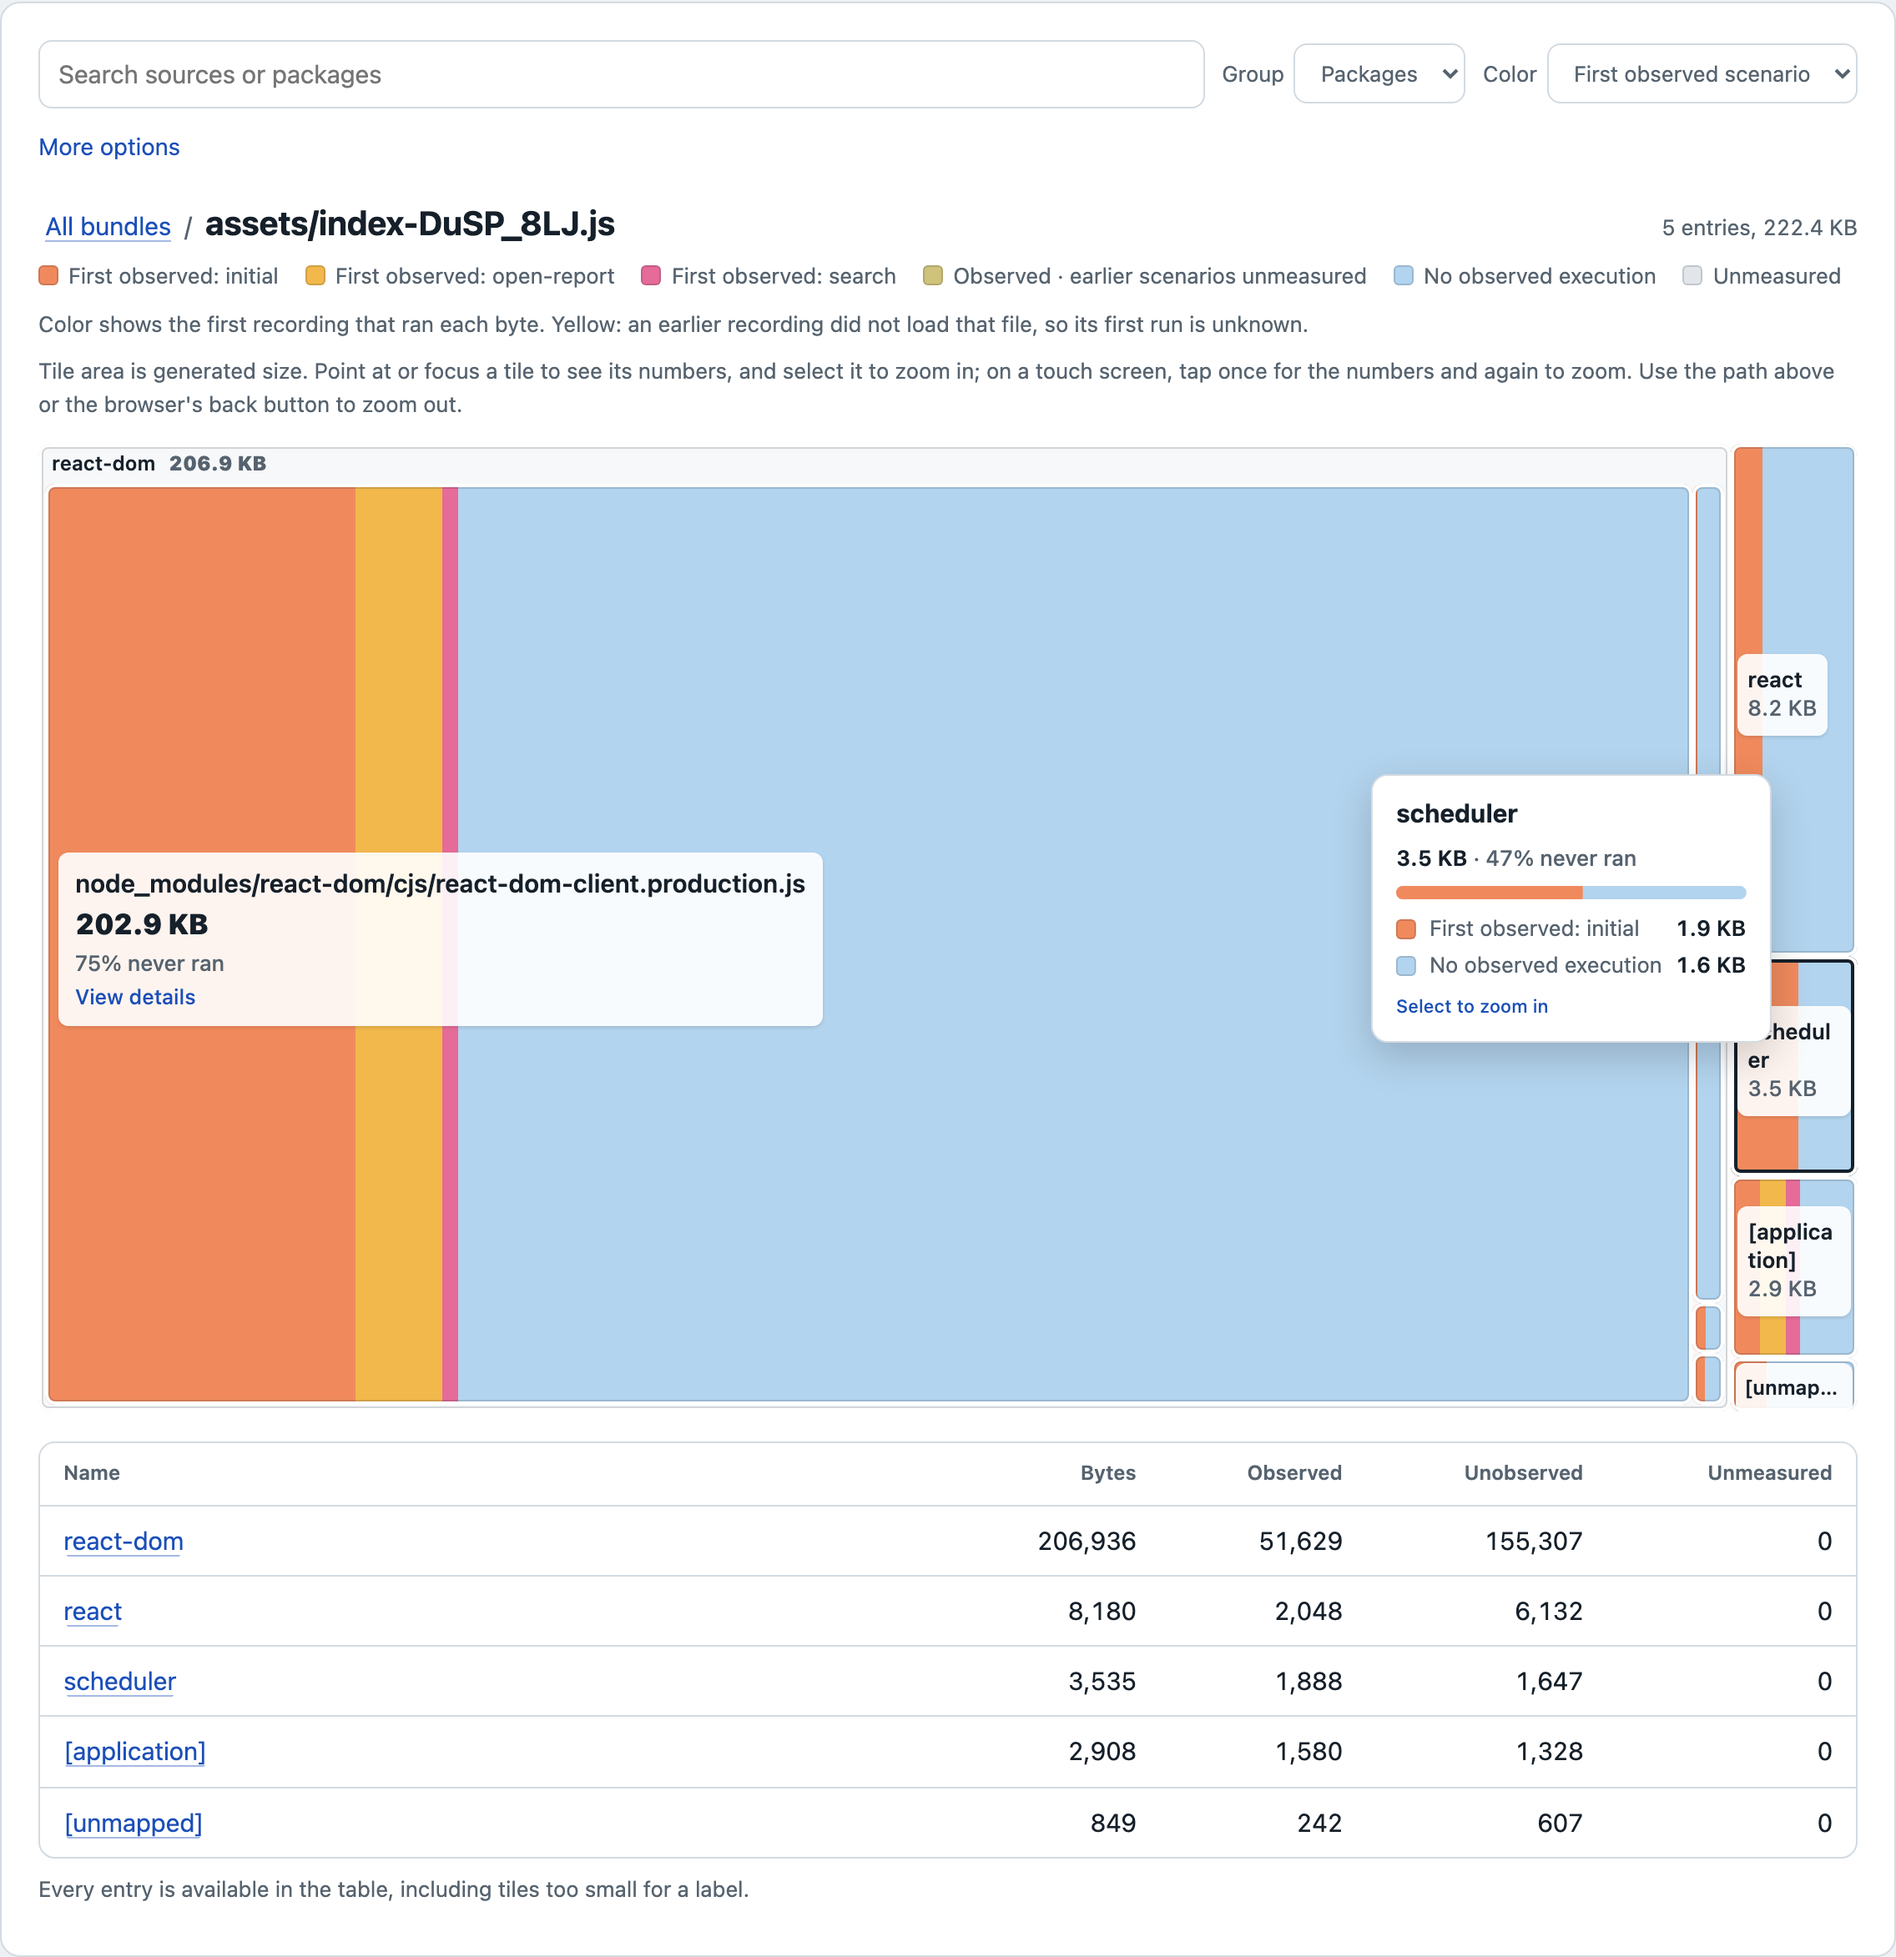
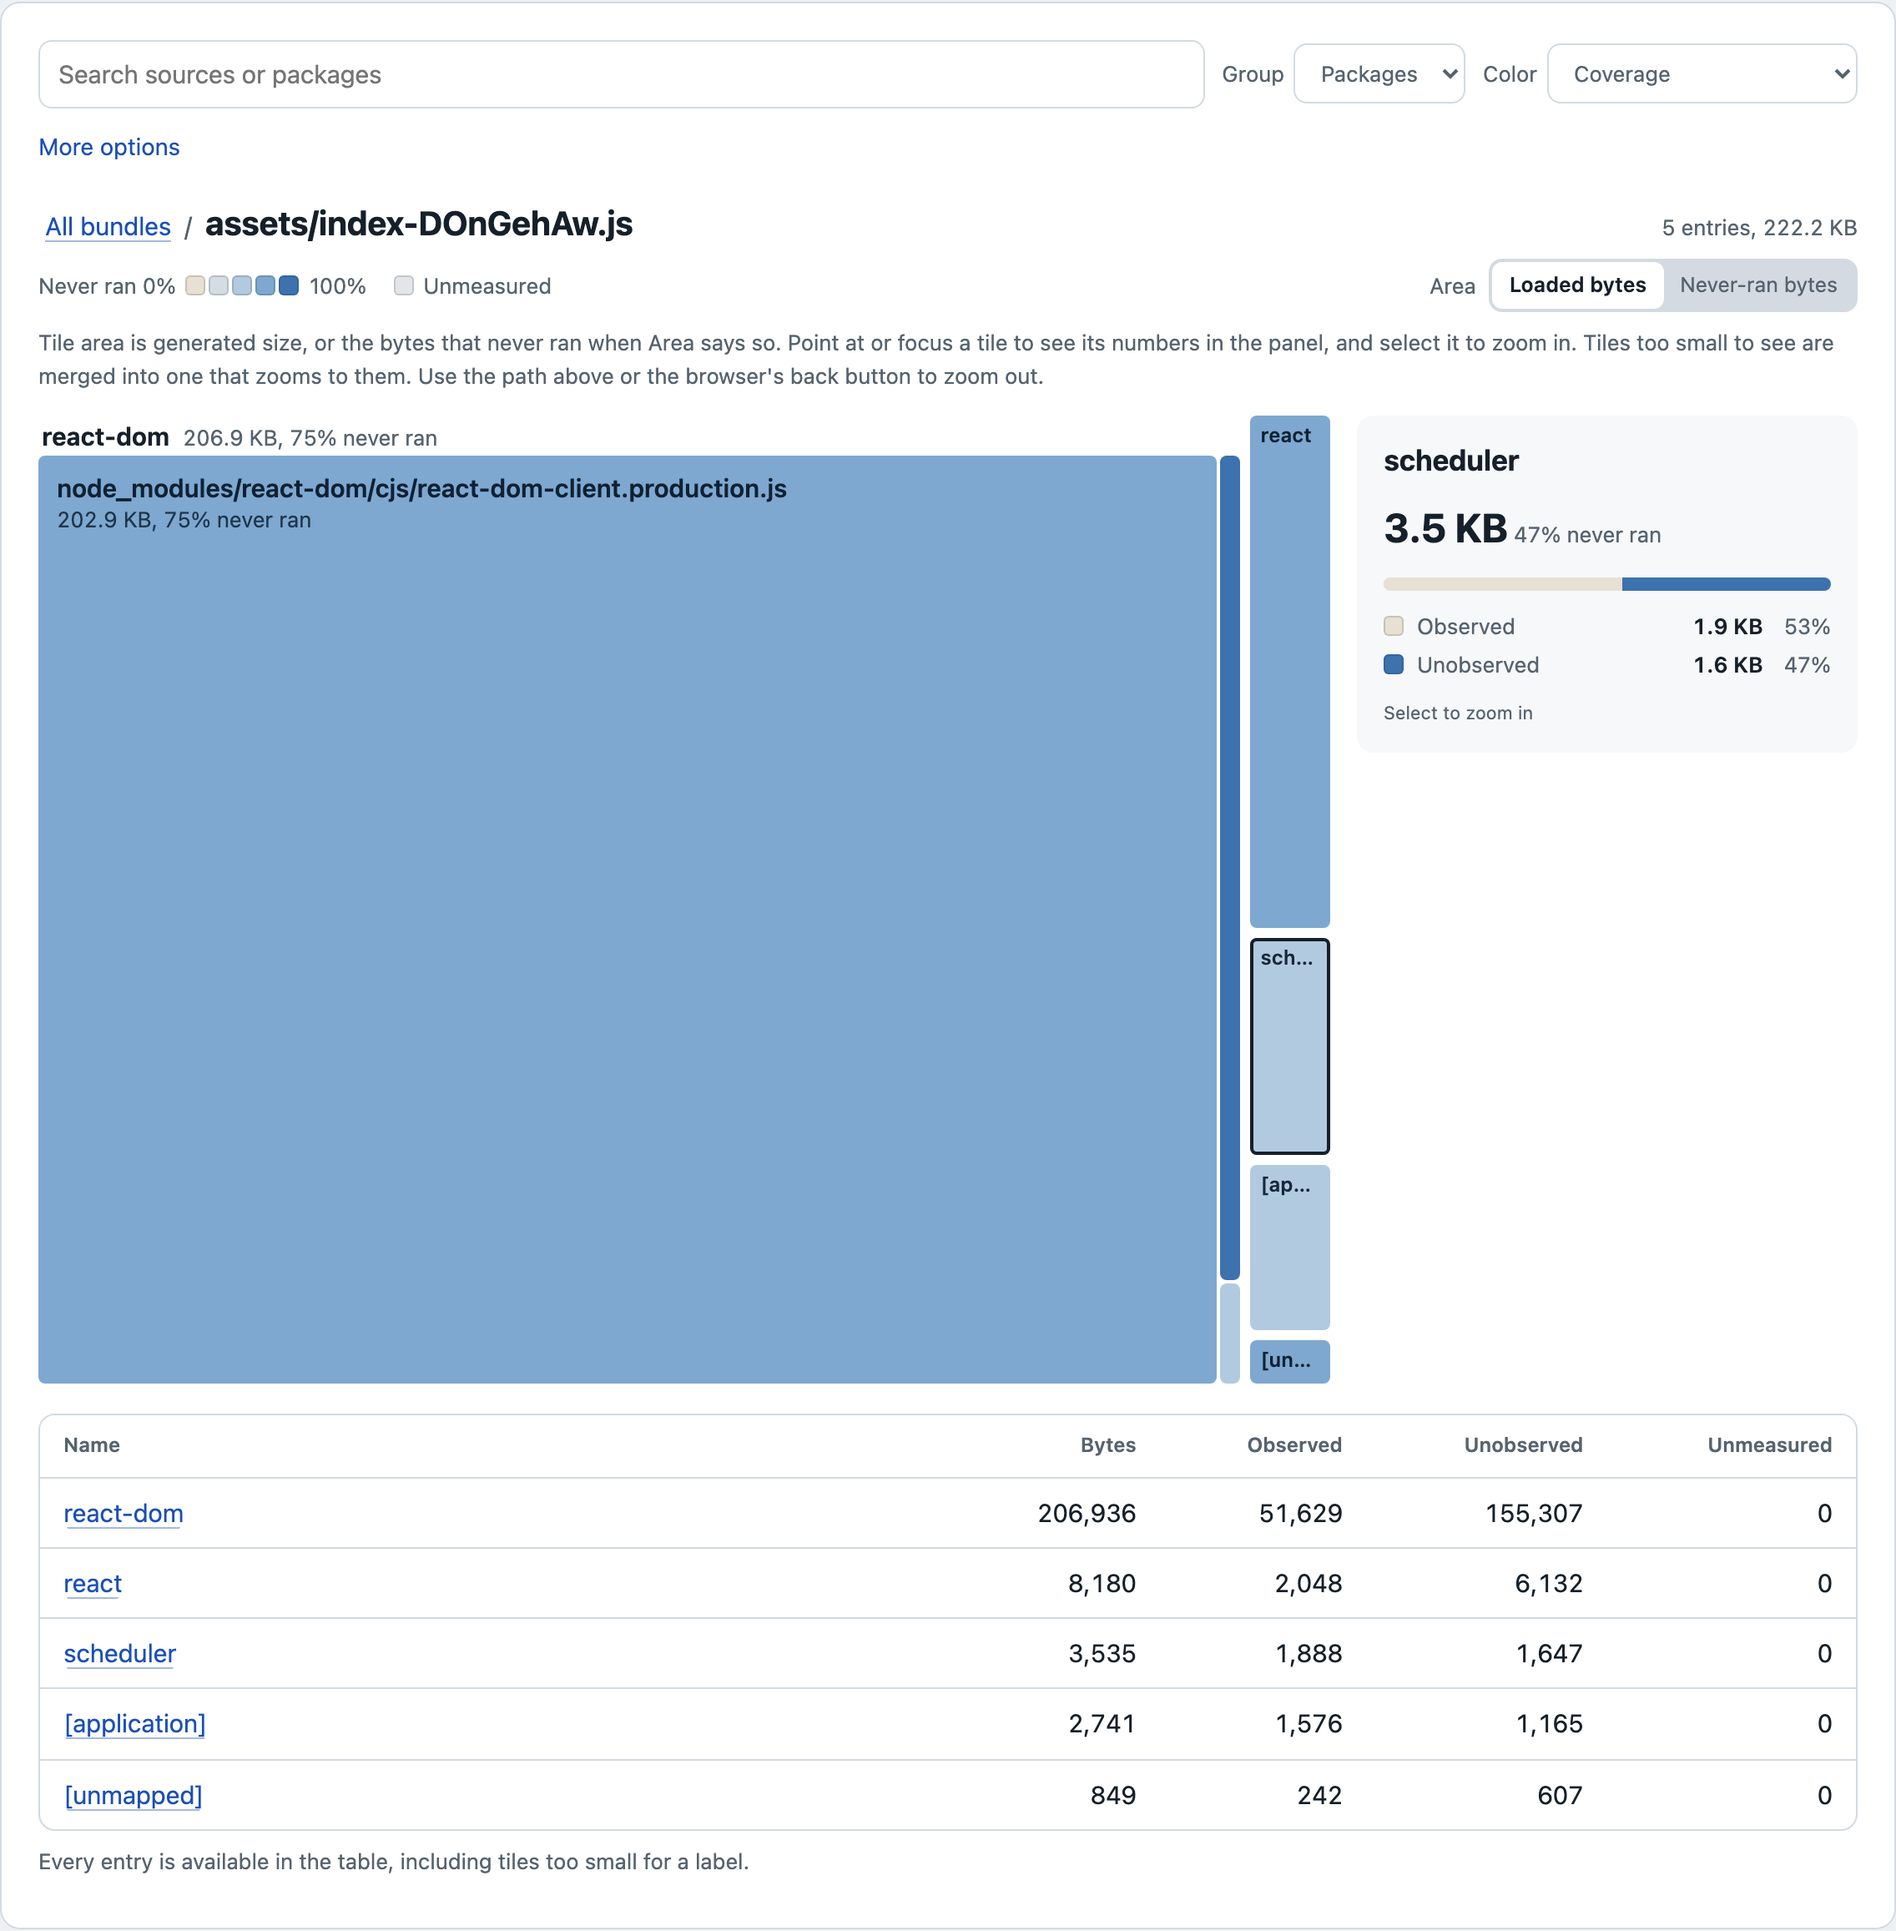
📝 Describe the redesigned treemap in the docs

diff --git a/README.md b/README.md
@@ -166,9 +166,9 @@ Open `artifacts/report.html` in a browser (it works offline). The top of the rep
 
 ![Report summary: 164.9 KB of 222.6 KB never ran; react-dom and react are 75% unused; ReportChart.jsx runs only after "open-report"](docs/images/summary.png)
 
-Below the summary, files that no recording loaded are hidden (the summary offers to show them), search, grouping, and the color mode sit above the treemap, and the remaining filters live under "More options". Tile area is generated bytes; color is the first scenario that executed those bytes: warm colors for code that ran (orange for the initial load, amber for "open-report", rose for "search") and ice blue for code that no scenario executed. Tiles are squarified, so small entries are boxes rather than slivers, and each label shows as much as fits: name, size, and the share that never ran on large tiles, and the name and size, or only the name, on smaller ones. Pointing at or focusing a tile (or tapping it once on a touch screen) shows a card with its numbers. Grouped by package, most of this bundle is `react-dom` code that none of the three scenarios executed, and the card shows that 47% of `scheduler` never ran:
+Below the summary, files that no recording loaded are hidden (the summary offers to show them), search, grouping, and the color mode sit above the treemap, and the remaining filters live under "More options". Tile area is generated bytes, and the Area switch sizes tiles by the bytes that never ran instead. Each tile has one color: the share of its bytes that never ran, in five steps from warm (ran) to ice blue (never ran), with grey for unmeasured bytes. The First observed scenario and Initial comparison modes color each tile by its largest part. Bundles and folders with room show their contents one level deep under a line of header text, and children too small to see are merged into one "N smaller items" tile that zooms to them. Labels are plain text on the tile: the name, then the size and the share that never ran when they fit. The panel beside the map (below it on phones) shows the numbers of the tile under the pointer or keyboard focus, and otherwise the current view's totals and its five files with the most code that never ran. Selecting a tile zooms in or opens the file. Grouped by package, most of this bundle is `react-dom` code that none of the three scenarios executed, and the panel shows that 47% of `scheduler` never ran:
 
-![Treemap of the demo bundle grouped by package, colored by first observed scenario, with the card for scheduler](docs/images/treemap.png)
+![Treemap of the demo bundle grouped by package, colored by the share that never ran, with the panel showing scheduler](docs/images/treemap.png)
 
 **5. Follow a review action.** "Review actions" (between the summary and the explorer) lists sources whose bytes first run after the initial load. Selecting `ReportChart.jsx` shows that 48 B of it run on the initial load (its top-level declarations) and 532 B run only in "open-report", the static import chain `main.jsx → Dashboard.jsx:4:1 → ReportChart.jsx` that pulls it into the initial bundle, isolated gzip estimates, and a code inspector per scenario:
 
@@ -202,7 +202,7 @@ coldpath dist/app.js dist/app.js.map --json artifacts/size.json
 coldpath 'dist/**/*.js' --tsv -
 ```
 
-Open the HTML directly in your browser. Bundles and folders with room show their contents nested inside, as in source-map-explorer. Click any box to zoom into it with an animated transition, zoom back out with breadcrumbs or the browser's back button, search sources, or group by package. Tile area represents bytes; coverage colors distinguish observed, unobserved, and unmeasured code. Every file is available in the table, including small tiles. With file/glob inputs and no output option, the CLI writes `coldpath.html` in the current directory, replacing any existing file, and prints `Wrote coldpath.html` after saving it.
+Open the HTML directly in your browser. Bundles and folders with room show their contents one level deep, and tiles too small to see are merged into one that zooms to them. Click any box to zoom into it with an animated transition, zoom back out with breadcrumbs or the browser's back button, search sources, or group by package. Tile area represents bytes; tile color is the share of each tile's bytes that never ran, with grey for unmeasured code. Every file is available in the table, including small tiles. With file/glob inputs and no output option, the CLI writes `coldpath.html` in the current directory, replacing any existing file, and prints `Wrote coldpath.html` after saving it.
 
 Build your application with source maps and point the CLI at its JavaScript output:
 

diff --git a/docs/usage.md b/docs/usage.md
@@ -126,7 +126,7 @@ coldpath --dir dist \
   --markdown artifacts/summary.md
 ```
 
-`--treemap file.html` provides a compact size/coverage explorer: bundle → folder → file navigation, breadcrumbs, package grouping, search, sorting, and a mapped-only view filter. Tile area uses generated bytes; colors show the three coverage states. Small files are still available in the table. It embeds only summary data, requires no decompression API, and follows the system color theme.
+`--treemap file.html` provides a compact size/coverage explorer: bundle → folder → file navigation, breadcrumbs, package grouping, search, sorting, and a mapped-only view filter. Tile area uses generated bytes, or the bytes that never ran with the Area switch. Reports open in the Coverage color mode, which fills each tile with one color: the share of its measured bytes that never ran, in five steps, with grey for unmeasured bytes. Bundles and folders with room show their contents one level deep, and tiles too small to see are merged into one that zooms to them. A panel beside the map shows the numbers of the tile under the pointer or keyboard focus, and otherwise the current view's totals and its files with the most code that never ran. Small files are still available in the table. It embeds only summary data, requires no decompression API, and follows the system color theme.
 
 `--html file.html` provides the full code inspector: bundle/package search, source drilldown, code-range navigation, an optional size distribution, app-code and coverage-state filters, and system/light/dark themes. UI filters in either report do not change overall totals or budgets. Original-source highlights identify mapping anchors; generated-code colors represent observed, unobserved, and unmeasured byte ranges.
 
@@ -185,7 +185,7 @@ Envelope recordings use their `scenario` field; standard exports use the input f
 
 `--initial-scenario` computes each later scenario's `interactionCandidates`: `interactionOnlyBytes` is the byte-range difference between later execution and initial execution, restricted to scripts measured during initial. `initialUnmeasuredObservedBytes` separately records later execution where initial evidence is absent. Candidate ranges can overlap between later scenarios; do not sum them to obtain the union. A candidate can be part of a source that also executes during initial.
 
-The treemap’s **First observed scenario** view gives each scenario a color, alongside never observed and unmeasured bytes. `bundles[].sources[].firstObserved` partitions observed bytes by the first recording in the declared order that executed each range. By default, order follows the first appearance of each name in the coverage inputs, with `--initial-scenario` moved first. Use `--scenario-order initial,open-report,search` to declare every scenario exactly once; initial must be first. This is an ordering of recordings, not inferred wall-clock execution time.
+The treemap’s **First observed scenario** view gives each scenario a color, alongside never observed and unmeasured bytes. Each tile takes the color of its largest part, and the panel beside the map lists every part. `bundles[].sources[].firstObserved` partitions observed bytes by the first recording in the declared order that executed each range. By default, order follows the first appearance of each name in the coverage inputs, with `--initial-scenario` moved first. Use `--scenario-order initial,open-report,search` to declare every scenario exactly once; initial must be first. This is an ordering of recordings, not inferred wall-clock execution time.
 
 When an earlier scenario lacks a bundle recording, later observations have `earlierUnmeasured: true` and appear yellow: their earliest execution is unknown. The **Initial vs interactions** view and initial selector provide the simpler two-phase comparison. Coverage selection shows one scenario. These colors do not prove when scripts were downloaded or that a whole source can be deferred.
 
